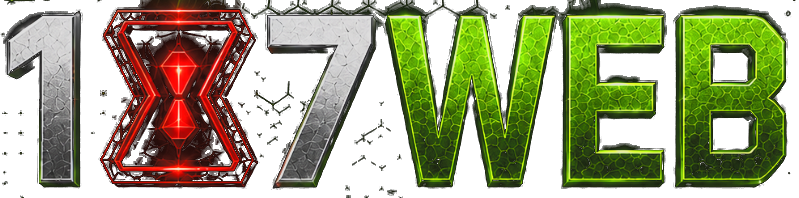
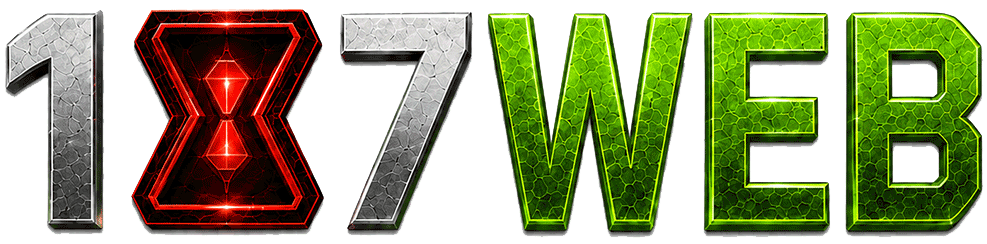
feat(brand): official wordmark, CORE mascot, holo bg, Lab bulb
Wire canonical Downloads assets: CORE mascot + wordmark hero stack, larger nav badge, drifting holo mascot in hive atmosphere, large LumenHelix bulb on About and sitewide pepper/footer.

diff --git a/components/launch/WebHiveHoloMascot.tsx b/components/launch/WebHiveHoloMascot.tsx
@@ -1,0 +1,71 @@
+"use client";
+
+import { useEffect, useRef } from "react";
+import { brandAssets } from "@/lib/brand-assets";
+import { gsap, registerGsap } from "@/lib/motion/gsap";
+import { useReducedMotion } from "@/lib/motion/useReducedMotion";
+import { useClientMounted } from "@/lib/motion/useClientMounted";
+
+/**
+ * Soft hologram mascot drifting in the animated background layer.
+ * Transform/opacity only; does not capture pointer events.
+ */
+export function WebHiveHoloMascot() {
+  const mounted = useClientMounted();
+  const reduced = useReducedMotion();
+  const imgRef = useRef<HTMLImageElement>(null);
+
+  useEffect(() => {
+    if (!mounted || reduced || !imgRef.current) return;
+    registerGsap();
+    const el = imgRef.current;
+    const ctx = gsap.context(() => {
+      gsap.fromTo(
+        el,
+        { opacity: 0, scale: 0.92 },
+        { opacity: 0.14, scale: 1, duration: 2.2, ease: "power2.out" }
+      );
+      gsap.to(el, {
+        y: -18,
+        duration: 7,
+        ease: "sine.inOut",
+        yoyo: true,
+        repeat: -1,
+      });
+      gsap.to(el, {
+        rotate: 2.5,
+        duration: 11,
+        ease: "sine.inOut",
+        yoyo: true,
+        repeat: -1,
+      });
+    });
+    return () => ctx.revert();
+  }, [mounted, reduced]);
+
+  if (!mounted) return null;
+
+  return (
+    <div
+      className="pointer-events-none fixed inset-0 z-[1] flex items-center justify-center overflow-hidden"
+      aria-hidden="true"
+    >
+      {/* eslint-disable-next-line @next/next/no-img-element -- basePath-safe static export */}
+      <img
+        ref={imgRef}
+        src={brandAssets.mascotHoloBg}
+        alt=""
+        width={900}
+        height={900}
+        decoding="async"
+        className={`max-h-[min(88vh,52rem)] w-auto max-w-[min(92vw,46rem)] object-contain ${
+          reduced ? "opacity-[0.1]" : "opacity-0"
+        }`}
+        style={{
+          filter: "saturate(1.05) brightness(1.05)",
+          mixBlendMode: "screen",
+        }}
+      />
+    </div>
+  );
+}

diff --git a/lib/brand-assets.ts b/lib/brand-assets.ts
@@ -12,31 +12,35 @@ function withBase(path: string): string {
 }
 
 export const brandAssets = {
-  /** 187WEB badge / spider orb — primary product mark */
+  /** Official 187WEB badge icon — nav mark, favicon contexts */
   orb: withBase("/images/187web_badge_icon.png"),
-  /** Horizontal 187WEB lockup — agent hero / README header */
-  headerLockup: withBase("/images/187web_lockup_horizontal.png"),
-  /** Wordmark + tagline strip for hero / sampler surfaces */
-  wordmarkTagline: withBase("/images/187web_wordmark_tagline.png"),
-  /** Clean 187WEB wordmark (hero primary) */
+  /** Official 187WEB wordmark */
   wordmark: withBase("/images/187web_wordmark.png"),
-  /** Large hero badge / spider mark above wordmark */
+  /** Wordmark + tagline strip (legacy / alternate) */
+  wordmarkTagline: withBase("/images/187web_wordmark_tagline.png"),
+  /** Horizontal lockup */
+  headerLockup: withBase("/images/187web_lockup_horizontal.png"),
+  /** Large hero badge (same official badge asset) */
   heroBadge: withBase("/images/187web_hero_badge.png"),
-  /** Red blueprint mascot — alternate figure surfaces */
+  /** CORE mascot — primary product figure */
+  mascotCore: withBase("/images/187web_mascot_core.png"),
+  /** Full-figure mascot alias for older call sites */
+  mascotReference: withBase("/images/187web_mascot_core.png"),
+  /** Hologram background mascot for animated hive layer */
+  mascotHoloBg: withBase("/images/187web_mascot_holo_bg.png"),
+  /** Wireframe / hologram line art for agent recolors */
+  mascotWireframe: withBase("/images/187web_mascot_wireframe.png"),
+  /** Red blueprint mascot — alternate */
   mascotBlueprint: withBase("/images/187web_mascot_blueprint.png"),
-  /** NATASHA technical blueprint — mascot geometry / vibe board */
+  /** NATASHA technical blueprint grid */
   blueprint: withBase("/images/187web_technical_blueprint_coordinate_grid.png"),
-  /** LumenHelix DNA lightbulb — org mark */
+  /** LumenHelix Lab DNA lightbulb — org icon */
   bulb: withBase("/images/lumenhelix-logo-bulb.png"),
   /** LUMENhelix /lab wordmark */
   labWordmark: withBase("/images/lumenhelixlab-text-logo.png"),
-  /** Full-figure mascot — hero reveals and Flip detail panel */
-  mascotReference: withBase("/images/187web_mascot_full_figure.png"),
-  /** Hologram / wireframe mascot for scroll and magnetic samplers */
-  mascotWireframe: withBase("/images/187web_mascot_wireframe.png"),
-  /** Triangle icon for Flip sampler grid */
+  /** Triangle icon for Flip sampler */
   triangleIcon: withBase("/images/187web_triangle_icon.png"),
-  /** KNOTstore agent-memory layer logo */
+  /** KNOTstore logo */
   knotstoreLogo: withBase("/images/KNOTSTORELOGO.png"),
 } as const;
 
@@ -46,8 +50,10 @@ export type BrandAssetKey = keyof typeof brandAssets;
 export const brandAssetsDocs = {
   orb: "docs/assets/187orblogo.png",
   headerLockup: "docs/assets/header.png",
+  wordmark: "docs/assets/header.png",
   blueprint: "docs/assets/natasha-tech-blueprint.png",
   bulb: "docs/assets/lumenhelix-logo-bulb.png",
   labWordmark: "docs/assets/lumenhelixlab-text-logo.png",
   mascotReference: "docs/assets/natasha187mascot.png",
+  mascotCore: "docs/assets/natasha187mascot.png",
 } as const;

diff --git a/components/about/AboutPage.tsx b/components/about/AboutPage.tsx
@@ -1,6 +1,7 @@
 "use client";
 
 import Link from "next/link";
+import { brandAssets } from "@/lib/brand-assets";
 import { KineticHeadline } from "@/components/type/KineticHeadline";
 import { SiteVersionBadge } from "@/components/version/SiteVersionBadge";
 import { siteBuild, siteVersionSummary } from "@/lib/site-version";
@@ -96,11 +97,22 @@ export function AboutPage() {
       <div className="container-x">
         <section className="mx-auto max-w-3xl text-center">
           <p className="text-xs font-semibold uppercase tracking-[0.2em] text-[#39FF14]">About · LumenHelix Lab</p>
+          {/* Official Lab bulb — large hero mark */}
+          {/* eslint-disable-next-line @next/next/no-img-element -- basePath-safe static export */}
+          <img
+            src={brandAssets.bulb}
+            alt="LumenHelix Lab"
+            width={280}
+            height={280}
+            decoding="async"
+            fetchPriority="high"
+            className="mx-auto mt-8 h-auto w-full max-w-[11rem] object-contain drop-shadow-[0_0_40px_rgba(57,255,20,0.35)] sm:max-w-[14rem] md:max-w-[16rem]"
+          />
           <KineticHeadline
             text="Build sharper systems."
             accent="Ship with soul."
             as="h1"
-            className="mt-4 text-[clamp(2.4rem,1.3rem+4vw,4.5rem)] font-bold leading-[0.95] tracking-tight text-white"
+            className="mt-6 text-[clamp(2.4rem,1.3rem+4vw,4.5rem)] font-bold leading-[0.95] tracking-tight text-white"
           />
           <p className="mx-auto mt-6 max-w-2xl text-lg leading-8 text-white/65">
             <strong className="text-white/90">LumenHelix Lab</strong> designs AI-assisted web suites, local-first
@@ -119,6 +131,20 @@ export function AboutPage() {
             </Link>{" "}
             is the living skill suite and showcase.
           </p>
+          <div className="mt-6 flex flex-wrap items-center justify-center gap-4">
+            {/* eslint-disable-next-line @next/next/no-img-element -- basePath-safe static export */}
+            <img
+              src={brandAssets.mascotCore}
+              alt="187WEB core mascot"
+              className="h-16 w-16 object-contain opacity-90 sm:h-20 sm:w-20"
+            />
+            {/* eslint-disable-next-line @next/next/no-img-element -- basePath-safe static export */}
+            <img
+              src={brandAssets.wordmark}
+              alt="187WEB"
+              className="h-8 w-auto max-w-[12rem] object-contain opacity-90 sm:h-10"
+            />
+          </div>
           <div className="mt-6 flex flex-wrap justify-center gap-3">
             {EXTERNAL.map((e) => (
               <a

diff --git a/components/launch/LaunchPage.tsx b/components/launch/LaunchPage.tsx
@@ -61,32 +61,43 @@ function Hero() {
         <HeroJazz>
           <div className="mx-auto max-w-5xl text-center">
             <div className="relative mx-auto flex max-w-3xl flex-col items-center">
+              {/* CORE mascot — primary product figure */}
               {/* eslint-disable-next-line @next/next/no-img-element -- basePath-safe static export */}
               <img
                 data-hero-badge
-                src={brandAssets.heroBadge}
-                alt="187WEB"
-                width={1024}
-                height={1024}
+                src={brandAssets.mascotCore}
+                alt="187WEB core mascot"
+                width={800}
+                height={800}
                 decoding="async"
                 fetchPriority="high"
-                className="h-auto w-full max-w-[16rem] object-contain drop-shadow-[0_0_48px_rgba(57,255,20,0.22)] sm:max-w-[20rem] md:max-w-[24rem] lg:max-w-[28rem]"
+                className="h-auto w-full max-w-[15rem] object-contain drop-shadow-[0_0_48px_rgba(57,255,20,0.28)] sm:max-w-[18rem] md:max-w-[22rem] lg:max-w-[24rem]"
               />
+              {/* Official wordmark */}
               {/* eslint-disable-next-line @next/next/no-img-element -- basePath-safe static export */}
               <img
                 data-hero-word
                 src={brandAssets.wordmark}
-                alt="187WEB wordmark"
+                alt="187WEB"
                 width={800}
                 height={200}
                 decoding="async"
-                className="mt-5 h-auto w-full max-w-md object-contain sm:mt-7 sm:max-w-lg md:max-w-xl"
+                className="mt-5 h-auto w-full max-w-sm object-contain sm:mt-7 sm:max-w-md md:max-w-lg"
               />
               <p data-hero-tag className="brand-hero-tagline mt-5 max-w-xl text-center sm:mt-6">
                 a Killer{" "}
                 <span className="sc-grad-text">AI-Powered</span>{" "}
                 <span className="text-[#39FF14]">WEB</span> Toolkit Suite
               </p>
+              {/* Lab mark — subtle brand pepper */}
+              {/* eslint-disable-next-line @next/next/no-img-element -- basePath-safe static export */}
+              <img
+                src={brandAssets.bulb}
+                alt="LumenHelix Lab"
+                width={64}
+                height={64}
+                className="mt-6 h-10 w-10 object-contain opacity-80 sm:h-12 sm:w-12"
+              />
             </div>
 
             <KineticHeadline

diff --git a/components/launch/ProductShell.tsx b/components/launch/ProductShell.tsx
@@ -7,6 +7,7 @@ import { brandAssets } from "@/lib/brand-assets";
 import { WebHiveBackground } from "./WebHiveBackground";
 import { WebHiveNetworkOverlay } from "./WebHiveNetworkOverlay";
 import { WebHiveTelemetryOverlay } from "./WebHiveTelemetryOverlay";
+import { WebHiveHoloMascot } from "./WebHiveHoloMascot";
 import { SiteNav } from "./SiteNav";
 import { SiteVersionBadge } from "@/components/version/SiteVersionBadge";
 import { useClientMounted } from "@/lib/motion/useClientMounted";
@@ -23,15 +24,23 @@ const WebHiveThreeBackground = dynamic(
 function Footer() {
   return (
     <footer className="relative z-10 border-t border-white/10 bg-[#050608] px-6 py-12">
-      <div className="container-x flex flex-col items-center justify-between gap-6 sm:flex-row">
-        <div className="flex flex-col items-center gap-2 sm:items-start">
-          <div className="flex items-center gap-3">
+      <div className="container-x flex flex-col items-center justify-between gap-8 sm:flex-row sm:items-end">
+        <div className="flex flex-col items-center gap-3 sm:items-start">
+          <div className="flex flex-wrap items-center justify-center gap-4 sm:justify-start">
             {/* eslint-disable-next-line @next/next/no-img-element -- basePath-safe static export */}
-            <img src={brandAssets.knotstoreLogo} alt="KNOTstore" className="h-6 w-auto" />
+            <img
+              src={brandAssets.bulb}
+              alt="LumenHelix Lab"
+              className="h-14 w-14 object-contain drop-shadow-[0_0_20px_rgba(57,255,20,0.25)] sm:h-16 sm:w-16"
+            />
             {/* eslint-disable-next-line @next/next/no-img-element -- basePath-safe static export */}
-            <img src={brandAssets.labWordmark} alt="LumenHelix Lab" className="h-5 opacity-90" />
+            <img src={brandAssets.labWordmark} alt="LumenHelix Lab" className="h-6 w-auto opacity-95 sm:h-7" />
+            {/* eslint-disable-next-line @next/next/no-img-element -- basePath-safe static export */}
+            <img src={brandAssets.orb} alt="" className="h-10 w-10 rounded-full object-contain opacity-90" />
+            {/* eslint-disable-next-line @next/next/no-img-element -- basePath-safe static export */}
+            <img src={brandAssets.knotstoreLogo} alt="KNOTstore" className="h-7 w-auto opacity-90" />
           </div>
-          <p className="text-sm text-white/50">
+          <p className="text-center text-sm text-white/50 sm:text-left">
             © {COPYRIGHT_YEAR} LumenHelix Lab · 187WEB · Custom Noncommercial License with Reserved
             Knotstore IP
           </p>
@@ -71,6 +80,7 @@ function HiveAtmosphere({ reducedMotion }: { reducedMotion: boolean }) {
   return (
     <div className="pointer-events-none fixed inset-0 z-0" aria-hidden>
       {reducedMotion ? <WebHiveBackground /> : <WebHiveThreeBackground />}
+      <WebHiveHoloMascot />
       {!reducedMotion && (
         <>
           <WebHiveNetworkOverlay />

diff --git a/components/launch/SiteNav.tsx b/components/launch/SiteNav.tsx
@@ -108,21 +108,24 @@ export function SiteNav() {
     <header ref={navRef} className="fixed inset-x-0 top-0 z-50">
       <div
         ref={barRef}
-        className="mx-3 mt-3 max-w-7xl rounded-2xl border border-white/10 bg-[#050608]/85 px-3 py-2 shadow-[0_12px_40px_-20px_rgba(0,0,0,0.8)] backdrop-blur-xl sm:mx-auto sm:px-4"
+        className="mx-3 mt-3 max-w-7xl rounded-2xl border border-white/10 bg-[#050608]/85 px-3 py-2.5 shadow-[0_12px_40px_-20px_rgba(0,0,0,0.8)] backdrop-blur-xl sm:mx-auto sm:px-4"
       >
         <nav className="flex items-center justify-between gap-2" aria-label="Primary">
           <Link
             href="/"
-            className="group flex shrink-0 items-center gap-2.5 font-bold tracking-tight text-white"
+            className="group flex shrink-0 items-center gap-3 font-bold tracking-tight text-white"
             data-nav-link
           >
+            {/* Official badge — larger mark in top menu */}
             {/* eslint-disable-next-line @next/next/no-img-element -- basePath-safe static export */}
             <img
               src={brandAssets.orb}
               alt=""
-              className="h-8 w-8 rounded-full object-cover drop-shadow-[0_0_12px_rgba(57,255,20,0.5)] transition group-hover:scale-105"
+              width={56}
+              height={56}
+              className="h-11 w-11 rounded-full object-contain drop-shadow-[0_0_16px_rgba(57,255,20,0.55)] transition group-hover:scale-105 sm:h-12 sm:w-12 md:h-14 md:w-14"
             />
-            <span className="hidden sm:inline">187WEB</span>
+            <span className="hidden text-base sm:inline md:text-lg">187WEB</span>
           </Link>
 
           {/* Desktop primary links */}

diff --git a/components/brain/LocalBrainPage.tsx b/components/brain/LocalBrainPage.tsx
@@ -1,6 +1,7 @@
 "use client";
 
 import Link from "next/link";
+import { brandAssets } from "@/lib/brand-assets";
 import { KineticHeadline } from "@/components/type/KineticHeadline";
 import { COMMAND_CATEGORY_HELP } from "@/components/187/CommandReference";
 
@@ -44,6 +45,12 @@ export function LocalBrainPage() {
       <div className="container-x">
         <section className="mx-auto max-w-3xl text-center">
           <p className="text-xs font-semibold uppercase tracking-[0.2em] text-[#39FF14]">Operators · local-first</p>
+          {/* eslint-disable-next-line @next/next/no-img-element -- basePath-safe static export */}
+          <img
+            src={brandAssets.bulb}
+            alt="LumenHelix Lab"
+            className="mx-auto mt-6 h-14 w-14 object-contain opacity-90 sm:h-16 sm:w-16"
+          />
           <KineticHeadline
             text="Local brain."
             accent="Obsidian weave."

diff --git a/components/install/InstallPageClient.tsx b/components/install/InstallPageClient.tsx
@@ -1,6 +1,7 @@
 "use client";
 
 import Link from "next/link";
+import { brandAssets } from "@/lib/brand-assets";
 import { KineticHeadline } from "@/components/type/KineticHeadline";
 import { InstallCommand } from "@/components/install/InstallCommand";
 import { Reveal } from "@/components/Reveal";
@@ -76,6 +77,12 @@ export function InstallPageClient() {
           <p className="text-xs font-semibold uppercase tracking-[0.2em] text-[#39FF14]">
             Preflight · install · onboard
           </p>
+          {/* eslint-disable-next-line @next/next/no-img-element -- basePath-safe static export */}
+          <img
+            src={brandAssets.bulb}
+            alt="LumenHelix Lab"
+            className="mx-auto mt-6 h-16 w-16 object-contain opacity-90 sm:h-20 sm:w-20"
+          />
           <KineticHeadline
             text="Install what you need."
             accent="Skip the rest."